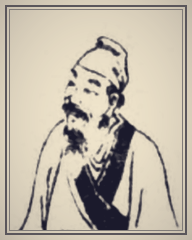
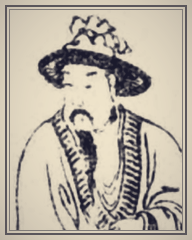
Draw portraits for the chapter-1 officers
Chapter 1 adds ten officers (田豫, 廉彪, 岳麟, 昌豨, 石猛, 夏昆, 宗寶,
田楷, 單經, 許耽) and every usable figure of the book is already taken.
The recruits and bandit chiefs who stay with Liu Bei now share figures
of people gone before they join (the prologue's 李肅, 趙岑, 胡軫, 華雄
and the act-1 casualties 麴義, 嚴綱); the six later officers who held
those second slots move to figures of short-lived enemies they never
meet. The rest pair with people of other acts.

The portrait table may hold keys no officer uses yet (a drama can @show
any key, and chapters in progress add officers later): the build draws
them and lists them instead of refusing the table.

diff --git a/tools/assets/build_portraits.py b/tools/assets/build_portraits.py
@@ -95,14 +95,18 @@ def officers(pack: Path = PACK_DIR) -> dict[str, str]:
     return {o["id"]: o.get("portrait", o["id"]) for o in doc["officer"]}
 
 
-def check_table(entries: list[Portrait], index: dict[int, dict[str, str]], reserved: set[str], keys: set[str]) -> None:
-    """Refuse inconsistent mappings before anything is drawn."""
+def check_table(
+    entries: list[Portrait], index: dict[int, dict[str, str]], reserved: set[str], keys: set[str]
+) -> list[str]:
+    """Refuse inconsistent mappings before anything is drawn; returns the keys no officer uses.
+
+    Such entries are legitimate (a drama can `@show` any portrait key, and a chapter in progress
+    may add its officers later) but are listed so a misspelt key does not go unnoticed.
+    """
     problems = []
     by_key = {p.key: p for p in entries}
     for key in sorted(keys - set(by_key)):
         problems.append(f"officer portrait {key!r} has no entry in portraits.toml")
-    for key in sorted(set(by_key) - keys):
-        problems.append(f"portraits.toml entry {key!r} is not an officer's portrait key")
     own = {(p.page, p.quad): p.key for p in entries if not p.stand_in}
     users: dict[tuple[int, str], list[Portrait]] = {}
     for p in entries:
@@ -123,6 +127,7 @@ def check_table(entries: list[Portrait], index: dict[int, dict[str, str]], reser
             problems.append(f"{keys}: a figure may serve at most twice, the second use mirrored")
     if problems:
         raise SourceError("portraits.toml:\n  " + "\n  ".join(problems))
+    return sorted(set(by_key) - keys)
 
 
 # ---------------------------------------------------------------------------------------------
@@ -220,7 +225,9 @@ def unknown_portrait() -> Image.Image:
 
 def build_portraits(src: Sources, pack: Path) -> list[str]:
     entries, index, reserved = load_table()
-    check_table(entries, index, reserved, set(officers().values()))
+    unused = check_table(entries, index, reserved, set(officers().values()))
+    if unused:
+        print(f"  portraits no officer uses (drawn anyway): {', '.join(unused)}")
     out_dir = pack / "gfx" / "portraits"
     written = []
     pages: dict[int, Image.Image] = {}

diff --git a/tools/assets/test_pipeline.py b/tools/assets/test_pipeline.py
@@ -74,8 +74,8 @@ INDEX = {16: {"TR": "丁原", "TL": "丁管", "BR": "伍孚", "BL": "董卓"}}
 
 
 class PortraitTableTest(unittest.TestCase):
-    def check(self, entries: list[Portrait], keys: set[str], reserved: frozenset[str] = frozenset()) -> None:
-        check_table(entries, INDEX, set(reserved), keys)
+    def check(self, entries: list[Portrait], keys: set[str], reserved: frozenset[str] = frozenset()) -> list[str]:
+        return check_table(entries, INDEX, set(reserved), keys)
 
     def test_box_is_4_by_5_with_the_face_40_percent_down(self) -> None:
         box = portrait("a", "丁原").box
@@ -85,7 +85,7 @@ class PortraitTableTest(unittest.TestCase):
         self.assertEqual(box[1] + h * 2 // 5, 100)
 
     def test_valid_table_passes(self) -> None:
-        self.check(
+        unused = self.check(
             [
                 portrait("a", "丁原"),
                 portrait("b", "伍孚", "BR", stand_in=True),
@@ -93,11 +93,15 @@ class PortraitTableTest(unittest.TestCase):
             ],
             {"a", "b", "c"},
         )
+        self.assertEqual(unused, [])
+
+    def test_entries_no_officer_uses_are_listed(self) -> None:
+        # a key for `@show` or for an officer a later chapter adds: accepted, but reported
+        self.assertEqual(self.check([portrait("a", "丁原"), portrait("x", "丁管", "TL")], {"a"}), ["x"])
 
     def test_rejections(self) -> None:
         cases = {
             "missing officer": ([portrait("a", "丁原")], {"a", "b"}),
-            "unknown key": ([portrait("a", "丁原"), portrait("x", "丁管", "TL")], {"a"}),
             "wrong figure": ([portrait("a", "董卓")], {"a"}),
             "second use not mirrored": (
                 [portrait("a", "伍孚", "BR", True), portrait("b", "伍孚", "BR", True)],

diff --git a/tools/assets/README.md b/tools/assets/README.md
@@ -186,9 +186,11 @@ source file of each key): `cursor`, `confirm`, `cancel`, `error`, `step`, `hit`,
 denoised, recoloured to indigo ink on warm paper and framed. `portraits.toml` maps every officer of
 `data/base/officers.toml` to a figure (page, quarter, face point, crop width, optional `erase`
 rectangles for printed text); the build refuses a table that misses an officer, names the wrong
-figure, uses a reserved figure as a stand-in or uses a figure more than twice. To add an officer:
-look for their figure in `[pages]`, else pick an unused figure of the same type, then check the crop
-on a review sheet (the portraits are small; judge them at 1x and 2x).
+figure, uses a reserved figure as a stand-in or uses a figure more than twice, and lists entries no
+officer uses (they are drawn too: for `@show` keys and for officers a chapter in progress adds). To
+add an officer: look for their figure in `[pages]`, else share a stand-in figure (mirrored) with
+someone they never meet — every usable figure is taken — then check the crop on a review sheet
+(the portraits are small; judge them at 1x and 2x).
 
 ## Drama backgrounds (`gfx/bg`)
 

diff --git a/CREDITS.md b/CREDITS.md
@@ -75,7 +75,7 @@ in-game credits are `data/base/credits.txt`.
   `tools/assets/sources.toml`)
 * **Used in:** `gfx/portraits/*.png` except `_unknown.png`
 * **Changes:** head-and-shoulders crops, levels, light denoise, recoloured to ink on warm paper,
-  vignette and frame. 52 officers show their own figure from the book; the other 57, whom the book
+  vignette and frame. 52 officers show their own figure from the book; the others, whom the book
   does not draw, show the figure of another person of the book (one figure serves two people at
   most, the second mirrored). `tools/assets/portraits.toml` lists every officer's figure.
 
